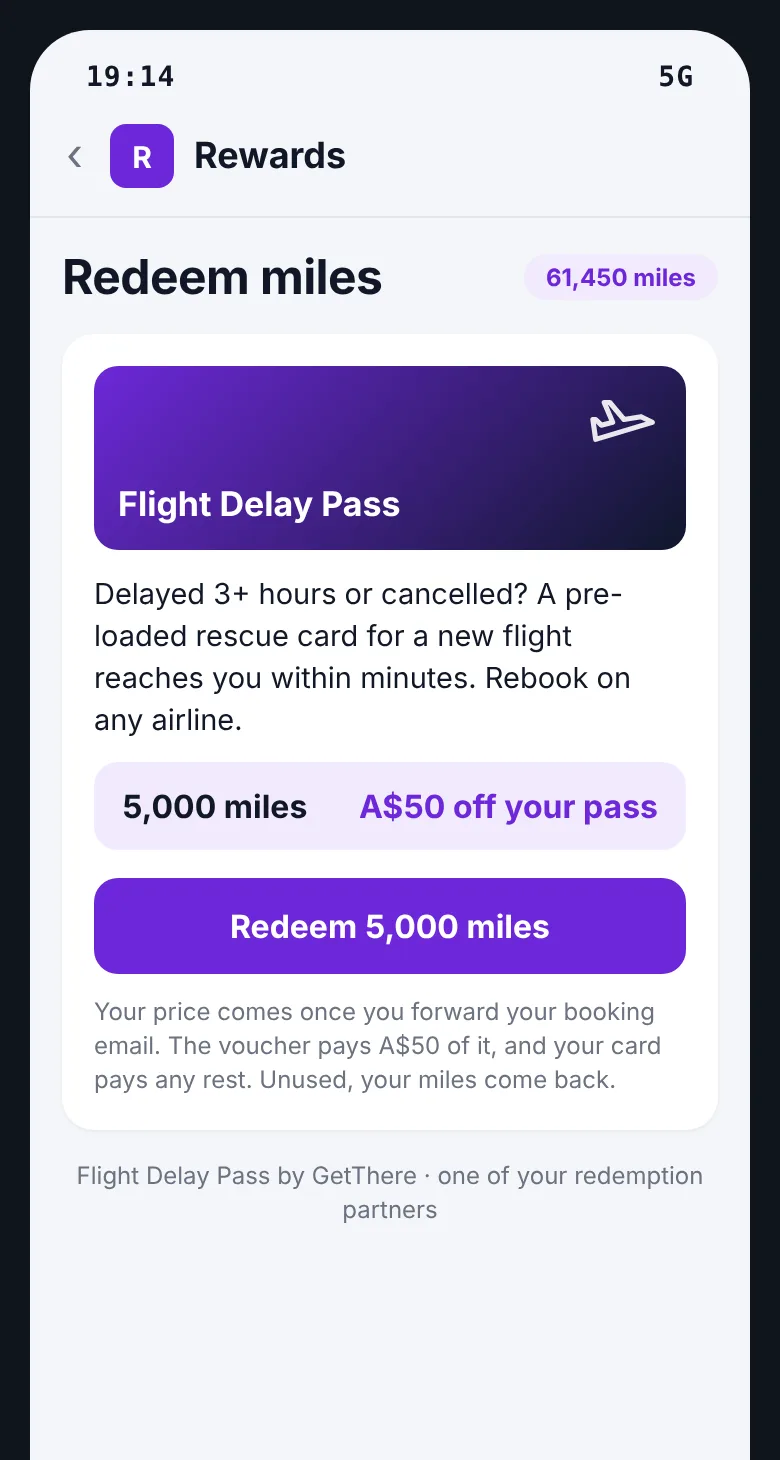
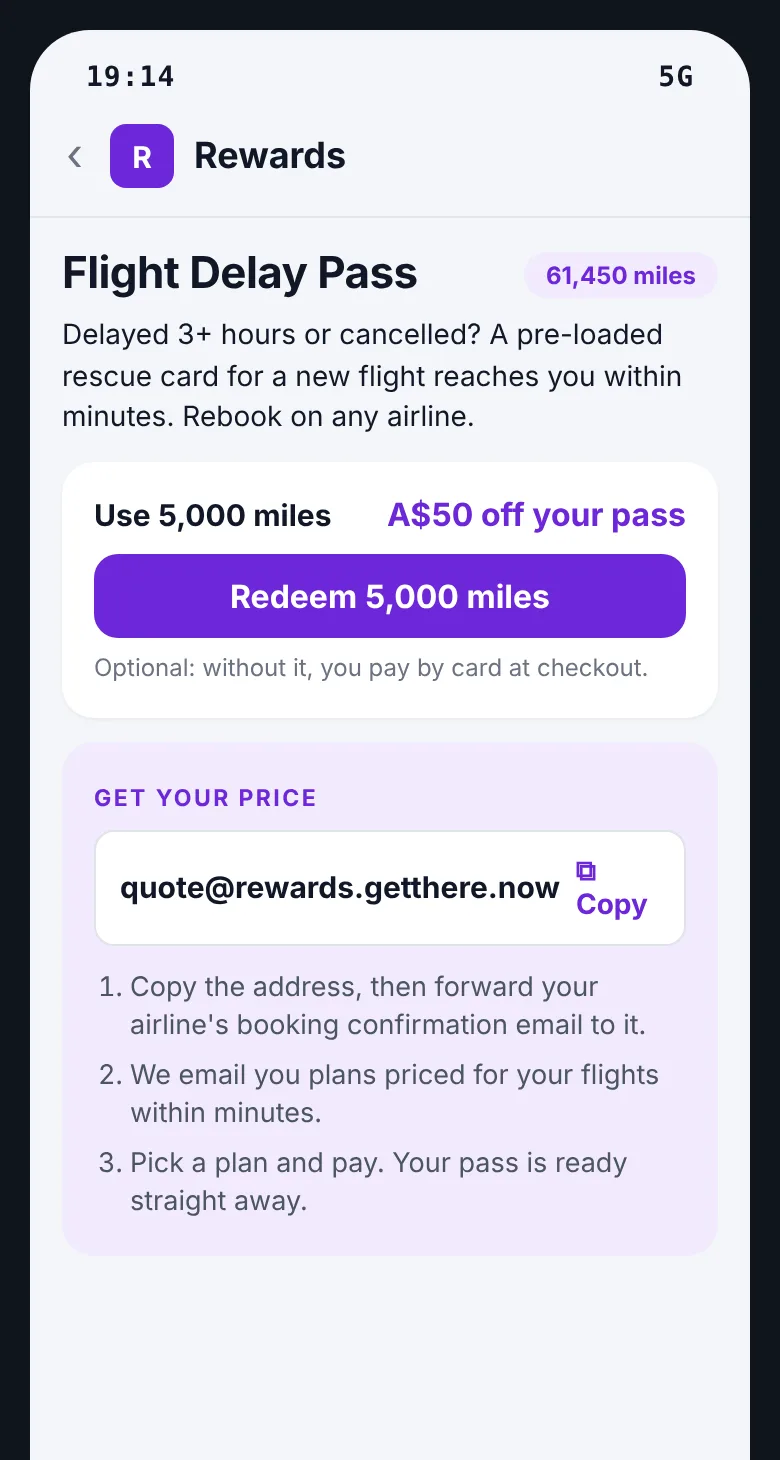
Redemption page shows the forwarding address from the start
The partner's page shows forward_to as soon as GET /offer returns, with redeeming
as an option. If the cardholder redeems, the partner posts the voucher and the page
says it will be applied at checkout; without it, they pay by card. Still two calls.

Claude-Session: https://claude.ai/code/session_01BwoBSteMTZ32djRxVWvcW3

Changed region(s): [[0.0923, 0.1541, 0.8923, 0.8322], [0.8615, 0.1849, 0.8923, 0.2158]]

diff --git a/api-issuers.html b/api-issuers.html
@@ -49,8 +49,9 @@
 
     <div class="callout key">
       <b>The short version.</b> You list the Flight Delay Pass as one of your points redemption partners. Your own
-      GetThere redemption page takes the points, posts a voucher to us and shows the cardholder where to forward their
-      booking email. That's two calls: <code>GET /offer</code> and <code>POST /vouchers</code>. GetThere builds the rest:
+      GetThere redemption page shows the cardholder where to forward their booking email, and lets them swap points for a
+      voucher. That's two calls: <code>GET /offer</code> when the page opens, and <code>POST /vouchers</code> if they
+      redeem. GetThere builds the rest:
       pricing, checkout with the voucher already applied, flight tracking, pre-loaded rescue cards, every message to the
       cardholder, and support.
     </div>
@@ -77,8 +78,8 @@
         <ul>
           <li><b>The "Just booked a flight?" push notification</b>, from your own card data, after an airline charge. It opens
           your redemption page.</li>
-          <li><b>Your GetThere redemption page</b>, in your app, beside your other redemption partners: it takes the points
-          and shows the forwarding address.</li>
+          <li><b>Your GetThere redemption page</b>, in your app, beside your other redemption partners: it shows the forwarding
+          address and takes the points if the cardholder redeems.</li>
           <li><b>A webhook endpoint</b>, to hear when a voucher is used or ends unused, so you can give the points back.</li>
           <li><b>A push endpoint, push receipts and a purchase-match endpoint</b> <span class="opt">optional</span>.</li>
         </ul>
@@ -101,10 +102,10 @@
     <div class="shots">
       <figure><img src="images/flow-1-nudge.webp?v=3" alt="Push notification after an airline payment: Just booked a flight?" loading="lazy">
         <figcaption><b>1. Your push</b>"Just booked a flight?" after an airline charge. It opens your redemption page.</figcaption></figure>
-      <figure><img src="images/flow-2-redeem.webp" alt="The issuer's redemption page: 5,000 points for A$50 off the Flight Delay Pass" loading="lazy">
-        <figcaption><b>2. Your redemption page</b>You call <code>GET /offer</code> as it opens. She redeems 5,000 points.</figcaption></figure>
-      <figure><img src="images/flow-2-forward.webp" alt="The issuer's confirmation screen with the forwarding address and a Copy button" loading="lazy">
-        <figcaption><b>3. Your confirmation</b>You take the points, <code>POST /vouchers</code>, and show her forwarding address.</figcaption></figure>
+      <figure><img src="images/flow-2-redeem.webp?v=2" alt="The issuer's redemption page: the forwarding address, and 5,000 points for A$50 off the Flight Delay Pass" loading="lazy">
+        <figcaption><b>2. Your redemption page</b>You call <code>GET /offer</code> as it opens and show her forwarding address. Redeeming is optional.</figcaption></figure>
+      <figure><img src="images/flow-2-forward.webp?v=2" alt="The same page after redeeming: the A$50 voucher will be applied at checkout" loading="lazy">
+        <figcaption><b>3. She redeems</b>You take the points and <code>POST /vouchers</code>. The page now says her voucher will be applied at checkout.</figcaption></figure>
       <figure><img src="images/flow-2-checkout.webp" alt="GetThere's checkout with the A$50 voucher applied and A$66.25 left to pay" loading="lazy">
         <figcaption><b>4. Our checkout</b>She forwards her booking, gets her price by email, and finds the voucher applied.</figcaption></figure>
     </div>
@@ -116,23 +117,27 @@
       </li>
       <li>
         <div class="lanes"><span class="lane you">Your server</span><span class="arrow">→</span><span class="lane gt">GetThere</span></div>
-        <h3>Your redemption page opens: you ask for an offer</h3>
+        <h3>Your redemption page opens: you ask for an offer and show her address</h3>
+        <p>Show <code>forward_to</code> with a Copy button, following <a href="#show">the address rules</a>, and the
+        option to redeem points.</p>
         <p class="call"><code>GET /partner/v1/offer?residence_country=AU&amp;opened=true&amp;customer_ref=C-88213</code> · <a href="#offer">details</a></p>
       </li>
       <li>
         <div class="lanes"><span class="lane card">Mia</span><span class="arrow">→</span><span class="lane you">Your systems</span><span class="arrow">→</span><span class="lane gt">GetThere</span></div>
-        <h3>She redeems: you take the points and post the voucher</h3>
+        <h3>If she redeems: you take the points and post the voucher</h3>
+        <p>Then change the page's copy: "Your A$50 voucher will be applied at checkout." The address stays the same.</p>
         <p class="call"><code>POST /partner/v1/vouchers</code> with the offer's <code>request_id</code> · <a href="#vouchers">details</a></p>
       </li>
       <li>
-        <div class="lanes"><span class="lane you">Your app</span><span class="arrow">→</span><span class="lane card">Mia</span></div>
-        <h3>You show her forwarding address</h3>
-        <p>With a Copy button, following <a href="#show">the address rules</a>. She forwards the airline's confirmation to it.</p>
+        <div class="lanes"><span class="lane card">Mia</span><span class="arrow">→</span><span class="lane gt">GetThere</span></div>
+        <h3>She forwards her booking email</h3>
+        <p>To the address she copied, with or without a voucher. We read every flight and traveller on it.</p>
       </li>
       <li>
         <div class="lanes"><span class="lane gt">GetThere</span><span class="arrow">→</span><span class="lane card">Mia</span></div>
         <h3>She gets a price and buys the pass</h3>
-        <p>We email her the plans within minutes. Checkout opens with the voucher applied, and her card pays the rest.</p>
+        <p>We email her the plans within minutes. Checkout opens with the voucher applied, and her card pays the rest.
+        Without a voucher, she pays by card.</p>
       </li>
       <li>
         <div class="lanes"><span class="lane gt">GetThere</span><span class="arrow">→</span><span class="lane you">Your webhook</span></div>
@@ -195,7 +200,7 @@
     <a href="api.html#errors">errors</a>). If the call fails, don't take any points: show an error and let them try again.</p>
 
     <h2 id="vouchers">4. <code>POST /partner/v1/vouchers</code></h2>
-    <p class="meta"><b>You call GetThere</b> · from your server, once the cardholder redeems and you've taken the points</p>
+    <p class="meta"><b>You call GetThere</b> · from your server, if the cardholder redeems, once you've taken the points</p>
     <p>A pass voucher for the offer you just made. It works only on the booking forwarded to that offer's
     <code>forward_to</code>, and its checkout opens with it applied: the cardholder never types a code.</p>
 <pre><code>POST /partner/v1/vouchers
@@ -227,9 +232,9 @@
     stays used, so don't return the points.</p>
 
     <h2 id="show">5. Showing the forwarding address</h2>
-    <p>Your confirmation screen shows <code>forward_to</code> with a Copy button: "Forward your booking email to this
-    address. Your voucher is already applied at checkout." The cardholder copies it, switches to their email, and forwards
-    the airline's confirmation.</p>
+    <p>Your redemption page shows <code>forward_to</code> with a Copy button as soon as it opens, whether or not the
+    cardholder redeems. Once they do, add: "Your voucher will be applied at checkout." The cardholder copies the address,
+    switches to their email, and forwards the airline's confirmation.</p>
     <div class="callout must"><b>The address shown can't be copied on its own.</b> Only the full <code>forward_to</code>
       carries the offer's code, which is what finds the voucher. So:
       <ul>

diff --git a/loyalty-programs.html b/loyalty-programs.html
@@ -102,8 +102,8 @@
     <div class="carousel" aria-roledescription="carousel" aria-label="The member's journey in your app">
       <div class="car-track">
         <figure class="slide"><img src="images/loyalty-flow-1-nudge.webp" alt="Push notification after a flight booking: Just booked a flight?" loading="lazy"><figcaption><span class="step"><span class="dot">1</span>In your app</span><h3>Your app sends a nudge</h3><p>Right after you see a flight booked, from a tracked card charge or a click-through to an airline or travel site, your app sends one notification: "Just booked a flight?" You choose which members and bookings get it.</p></figcaption></figure>
-        <figure class="slide"><img src="images/loyalty-flow-2-redeem.webp" alt="Your redemption page: 5,000 miles for A$50 off the Flight Delay Pass" loading="lazy"><figcaption><span class="step"><span class="dot">2</span>Your redemption page</span><h3>Redeem miles</h3><p>The notification opens your own redemption page, where the Flight Delay Pass sits beside your other redemption partners. She swaps 5,000 miles for A$50 off her pass, and your page posts the voucher to GetThere.</p></figcaption></figure>
-        <figure class="slide"><img src="images/loyalty-flow-2-forward.webp" alt="Your confirmation screen with the address to forward the booking email to and a copy button" loading="lazy"><figcaption><span class="step"><span class="dot">3</span>Your redemption page</span><h3>Forward the booking</h3><p>Your confirmation shows her own forwarding address. She copies it and forwards her airline's booking email. GetThere emails her a price within minutes. There's nothing else to fill in.</p></figcaption></figure>
+        <figure class="slide"><img src="images/loyalty-flow-2-redeem.webp?v=2" alt="Your redemption page: her forwarding address, and 5,000 miles for A$50 off the Flight Delay Pass" loading="lazy"><figcaption><span class="step"><span class="dot">2</span>Your redemption page</span><h3>Redeem miles, or not</h3><p>The notification opens your own page for the Flight Delay Pass, beside your other redemption partners. It shows her forwarding address, and she can swap 5,000 miles for A$50 off. Redeeming is optional: she can forward her booking and pay by card instead.</p></figcaption></figure>
+        <figure class="slide"><img src="images/loyalty-flow-2-forward.webp?v=2" alt="The same page after redeeming: her A$50 voucher will be applied at checkout" loading="lazy"><figcaption><span class="step"><span class="dot">3</span>Your redemption page</span><h3>Forward the booking</h3><p>Once she redeems, the same page says her A$50 voucher will be applied at checkout. She copies the address and forwards her airline's booking email. GetThere emails her a price within minutes.</p></figcaption></figure>
         <figure class="slide"><img src="images/loyalty-gt-1-offer-email-tall.webp" alt="Price email from GetThere in your colours" loading="lazy"><figcaption><span class="step"><span class="dot">4</span>Email from GetThere</span><h3>Price email</h3><p>Within minutes she gets a price for her exact flights, in your colours and from an email address with your name on it. Every flight and traveller on the booking is included.</p></figcaption></figure>
         <figure class="slide"><img src="images/loyalty-flow-2-checkout.webp" alt="GetThere's checkout with the A$50 voucher applied" loading="lazy"><figcaption><span class="step"><span class="dot">5</span>GetThere checkout</span><h3>Pass issued</h3><p>Checkout, in your colours, opens with her voucher applied. Her card pays the rest, and her Flight Delay Pass is issued straight away, by email.</p></figcaption></figure>
       </div>

diff --git a/issuers.html b/issuers.html
@@ -102,8 +102,8 @@
     <div class="carousel" aria-roledescription="carousel" aria-label="The cardholder's journey in your app">
       <div class="car-track">
         <figure class="slide"><img src="images/flow-1-nudge.webp?v=2" alt="Push notification from the card issuer after an airline payment: Just booked a flight?" loading="lazy"><figcaption><span class="step"><span class="dot">1</span>In your app</span><h3>Your app sends a nudge</h3><p>Right after an airline charge on her card, your app sends one notification: "Just booked a flight?" You choose which cards and charges get it.</p></figcaption></figure>
-        <figure class="slide"><img src="images/flow-2-redeem.webp" alt="Your redemption page: 5,000 points for A$50 off the Flight Delay Pass" loading="lazy"><figcaption><span class="step"><span class="dot">2</span>Your redemption page</span><h3>Redeem points</h3><p>The notification opens your own redemption page, where the Flight Delay Pass sits beside your other redemption partners. She swaps 5,000 points for A$50 off her pass, and your page posts the voucher to GetThere.</p></figcaption></figure>
-        <figure class="slide"><img src="images/flow-2-forward.webp" alt="Your confirmation screen with the address to forward the booking email to and a copy button" loading="lazy"><figcaption><span class="step"><span class="dot">3</span>Your redemption page</span><h3>Forward the booking</h3><p>Your confirmation shows her own forwarding address. She copies it and forwards her airline's booking email. GetThere emails her a price within minutes. There's nothing else to fill in.</p></figcaption></figure>
+        <figure class="slide"><img src="images/flow-2-redeem.webp?v=2" alt="Your redemption page: her forwarding address, and 5,000 points for A$50 off the Flight Delay Pass" loading="lazy"><figcaption><span class="step"><span class="dot">2</span>Your redemption page</span><h3>Redeem points, or not</h3><p>The notification opens your own page for the Flight Delay Pass, beside your other redemption partners. It shows her forwarding address, and she can swap 5,000 points for A$50 off. Redeeming is optional: she can forward her booking and pay by card instead.</p></figcaption></figure>
+        <figure class="slide"><img src="images/flow-2-forward.webp?v=2" alt="The same page after redeeming: her A$50 voucher will be applied at checkout" loading="lazy"><figcaption><span class="step"><span class="dot">3</span>Your redemption page</span><h3>Forward the booking</h3><p>Once she redeems, the same page says her A$50 voucher will be applied at checkout. She copies the address and forwards her airline's booking email. GetThere emails her a price within minutes.</p></figcaption></figure>
         <figure class="slide"><img src="images/gt-1-offer-email-tall.webp" alt="Price email from GetThere in the card issuer's colours" loading="lazy"><figcaption><span class="step"><span class="dot">4</span>Email from GetThere</span><h3>Price email</h3><p>Within minutes she gets a price for her exact flights, in your colours and from an email address with your name on it. Every flight and traveller on the booking is included.</p></figcaption></figure>
         <figure class="slide"><img src="images/flow-2-checkout.webp" alt="GetThere's checkout with the A$50 voucher applied" loading="lazy"><figcaption><span class="step"><span class="dot">5</span>GetThere checkout</span><h3>Pass issued</h3><p>Checkout, in your colours, opens with her voucher applied. Her card pays the rest, and her Flight Delay Pass is issued straight away, by email.</p></figcaption></figure>
       </div>
